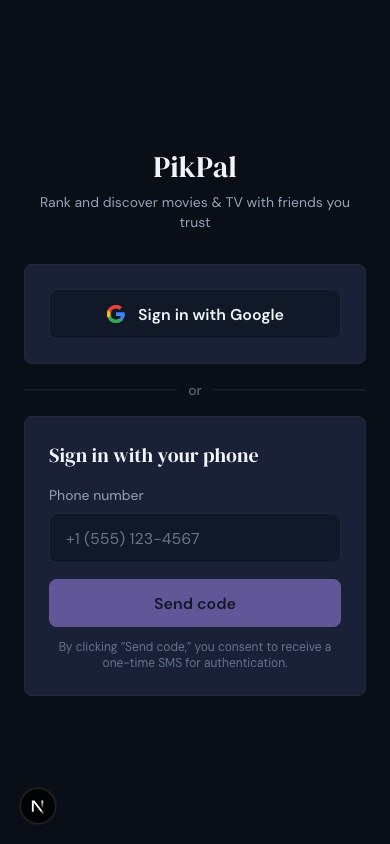
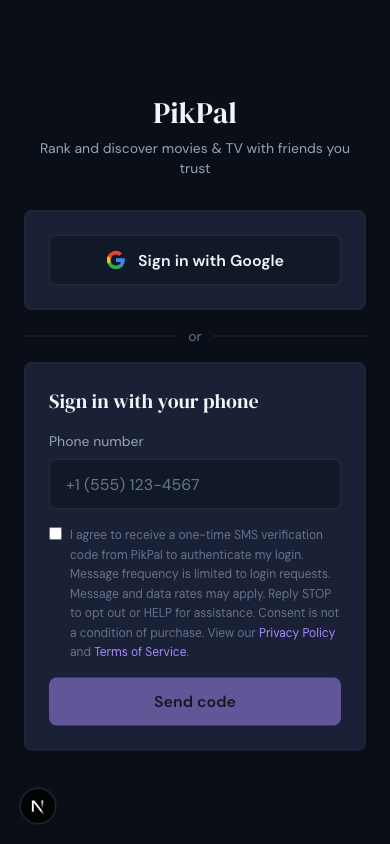
docs: update privacy policy and opt-in for A2P 10DLC compliance
- Add required SMS data sharing disclosure to privacy policy section 4
- Update opt-in flow documentation to reflect consent checkbox
- Include STOP/HELP/rates language in opt-in documentation
- Replace screenshot with updated login UI showing checkbox
- Update privacy policy last-updated date to March 30, 2026

Changed region(s): [[0.0615, 0.1232, 0.9538, 0.8934], [0.0923, 0.154, 0.4, 0.1848]]

diff --git a/sms-opt-in.html b/sms-opt-in.html
@@ -28,11 +28,12 @@
       <ol>
         <li>The user navigates to the PikPal sign-in page.</li>
         <li>The user enters their phone number in the "Sign in with your phone" section.</li>
-        <li>The user taps <strong>"Send code"</strong> — this is the explicit opt-in action.</li>
+        <li>The user checks an <strong>unchecked-by-default consent checkbox</strong> that reads: <em>"I agree to receive a one-time SMS verification code from PikPal to authenticate my login. Message frequency is limited to login requests. Message and data rates may apply. Reply STOP to opt out or HELP for assistance. Consent is not a condition of purchase. View our Privacy Policy and Terms of Service."</em></li>
+        <li>The user taps <strong>"Send code"</strong> (button is disabled until the checkbox is checked) — this is the explicit opt-in action.</li>
         <li>A single 6-digit verification code is sent via SMS.</li>
         <li>The user enters the code to complete sign-in.</li>
       </ol>
-      <p>No SMS is sent without the user explicitly initiating the request by tapping "Send code." Users can also choose to sign in with Google instead, bypassing SMS entirely.</p>
+      <p>No SMS is sent without the user explicitly checking the consent checkbox and tapping "Send code." The checkbox is unchecked by default — consent is never forced or pre-selected. Users can also choose to sign in with Google instead, bypassing SMS entirely.</p>
 
       <h3>Screenshot of the sign-in page:</h3>
       <div style="text-align:center; margin: 2rem 0;">
@@ -47,7 +48,13 @@
       </ul>
 
       <h3>Opt-out:</h3>
-      <p>Users can stop receiving SMS at any time by choosing to sign in with Google instead. Since messages are only sent on-demand, there is no subscription to cancel. Users may also reply STOP to any message.</p>
+      <p>Users can stop receiving SMS at any time by:</p>
+      <ul>
+        <li>Replying <strong>STOP</strong> to any message to immediately opt out.</li>
+        <li>Replying <strong>HELP</strong> to any message for assistance.</li>
+        <li>Choosing to sign in with Google instead, bypassing SMS entirely.</li>
+      </ul>
+      <p>Since messages are only sent on-demand when the user explicitly requests a login code, there is no subscription to cancel. Consent is not a condition of purchase or use of the app.</p>
     </section>
   </main>
 

diff --git a/privacy-policy.html b/privacy-policy.html
@@ -24,7 +24,7 @@
 
   <main class="content">
     <h1 class="page-title">Privacy Policy</h1>
-    <p class="page-subtitle">Last updated: March 17, 2026</p>
+    <p class="page-subtitle">Last updated: March 30, 2026</p>
 
     <article class="legal-content">
 
@@ -86,6 +86,7 @@
         <li><strong>Legal requirements:</strong> If required by law, regulation, legal process, or governmental request.</li>
         <li><strong>Safety:</strong> To protect the rights, property, or safety of our users or the public.</li>
       </ul>
+      <p><strong>SMS/Mobile Information:</strong> Mobile information will not be shared with third parties/affiliates for marketing/promotional purposes. All other categories exclude text messaging originator opt-in data and consent; this information will not be shared with any third parties.</p>
 
       <h2 id="data-storage">5. Data Storage and Security</h2>
       <p>Your data is stored in Supabase's cloud infrastructure. We implement reasonable security measures including:</p>
